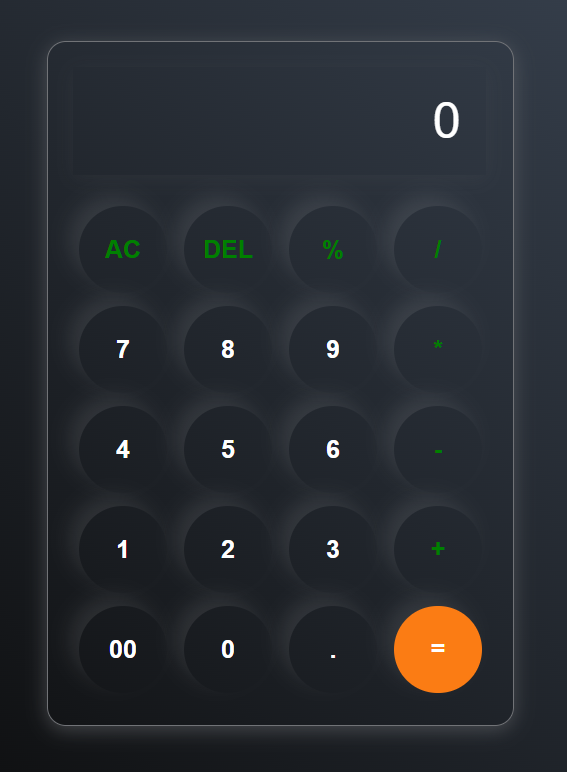
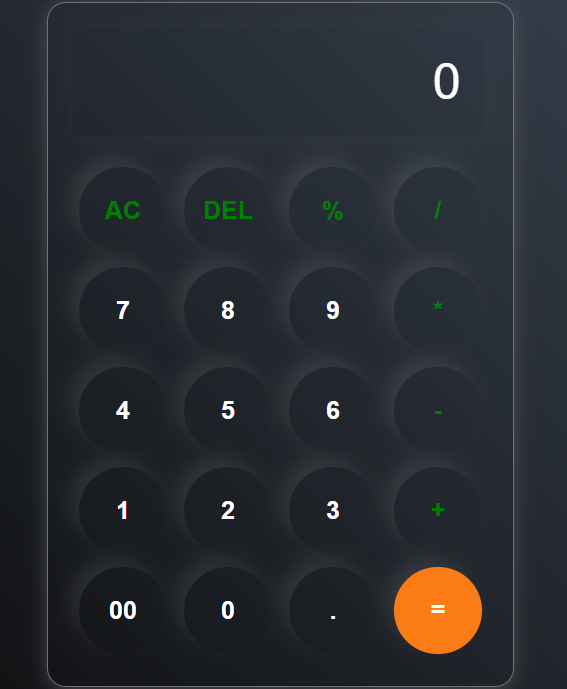
modified

diff --git a/index.html b/index.html
@@ -69,21 +69,21 @@
         <h1>Project</h1>
         
         <div class="project-section">
-            <div class="project">
+            <div class="project" id="first">
                 <img src="image/login&register-form.png" alt="Logiin&register form">
                 <h2>Login & Register form</h2>
                 <p>I created symple Login & Register form using HTML, CSS and JavaScript.</p>
                 <a href="https://riteshsoni143.github.io/Login-Register-form/">View Project</a>
             </div>
 
-            <div class="project">
+            <div class="project" id="second">
                 <img src="image/calculator.png" alt="Calculator">
                 <h2>Calculator</h2>
                 <p>I created Calculator using HTML, CSS and JavaScript.</p>
                 <a href="https://riteshsoni143.github.io/calculator/">view Project</a>
             </div>
 
-            <div class="project">
+            <div class="project" id="third">
                 <img src="image/portfolio.png" alt="Portfolio">
                 <h2>Portfolio</h2>
                 <p>It is my Responsive Portfolio website their mention my inforamation, skills, project, social media links, and contact details.</p>

diff --git a/style.css b/style.css
@@ -575,4 +575,19 @@ body{
     .home-section{
         width:1000px;
     }
+
+    #project h1{
+        font-size:100px;
+    }
+
+    .project-section{
+        flex-direction:row;
+        justify-content:space-evenly;
+        padding:60px 100px;
+    }
+
+    .project-section #first,  #second, #third{
+        width:250px;
+        height:500px;
+    }
 }

diff --git a/script.js b/script.js
@@ -1,4 +1,4 @@
-// function toggleSidebar() {
+// function Sidebar() {
 //     let toggle= document.getElementById("sidebar");
-//     toggle.style.right = 0;
+//     toggle.style.background = "blue";
 // }
